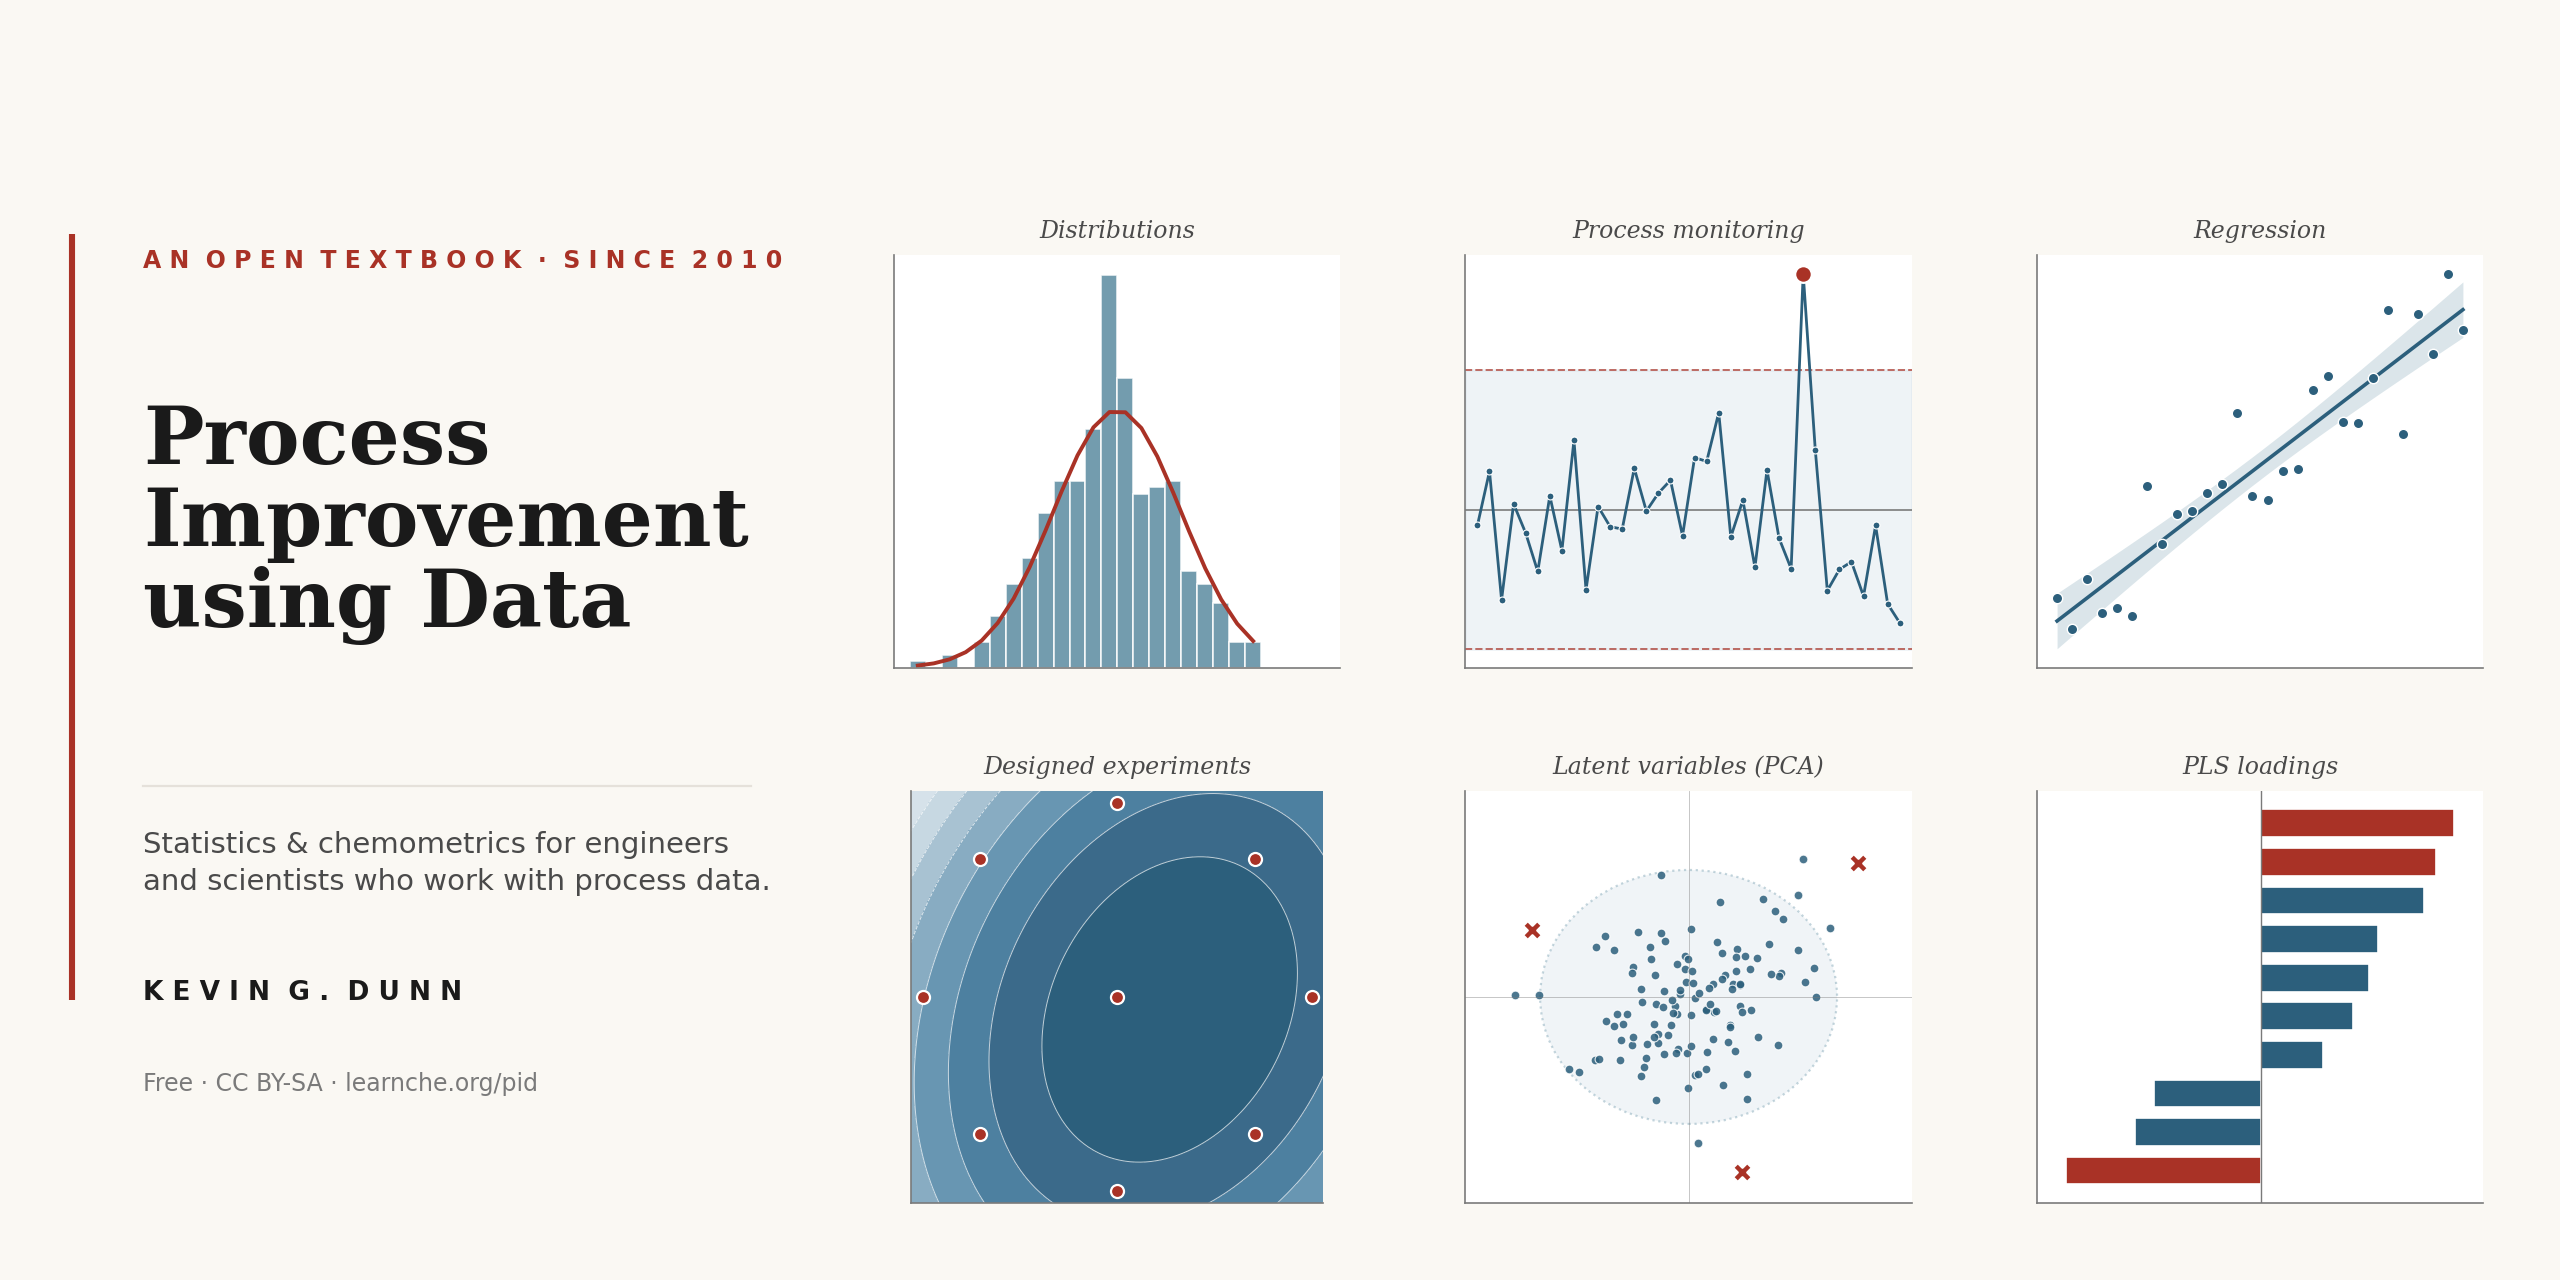
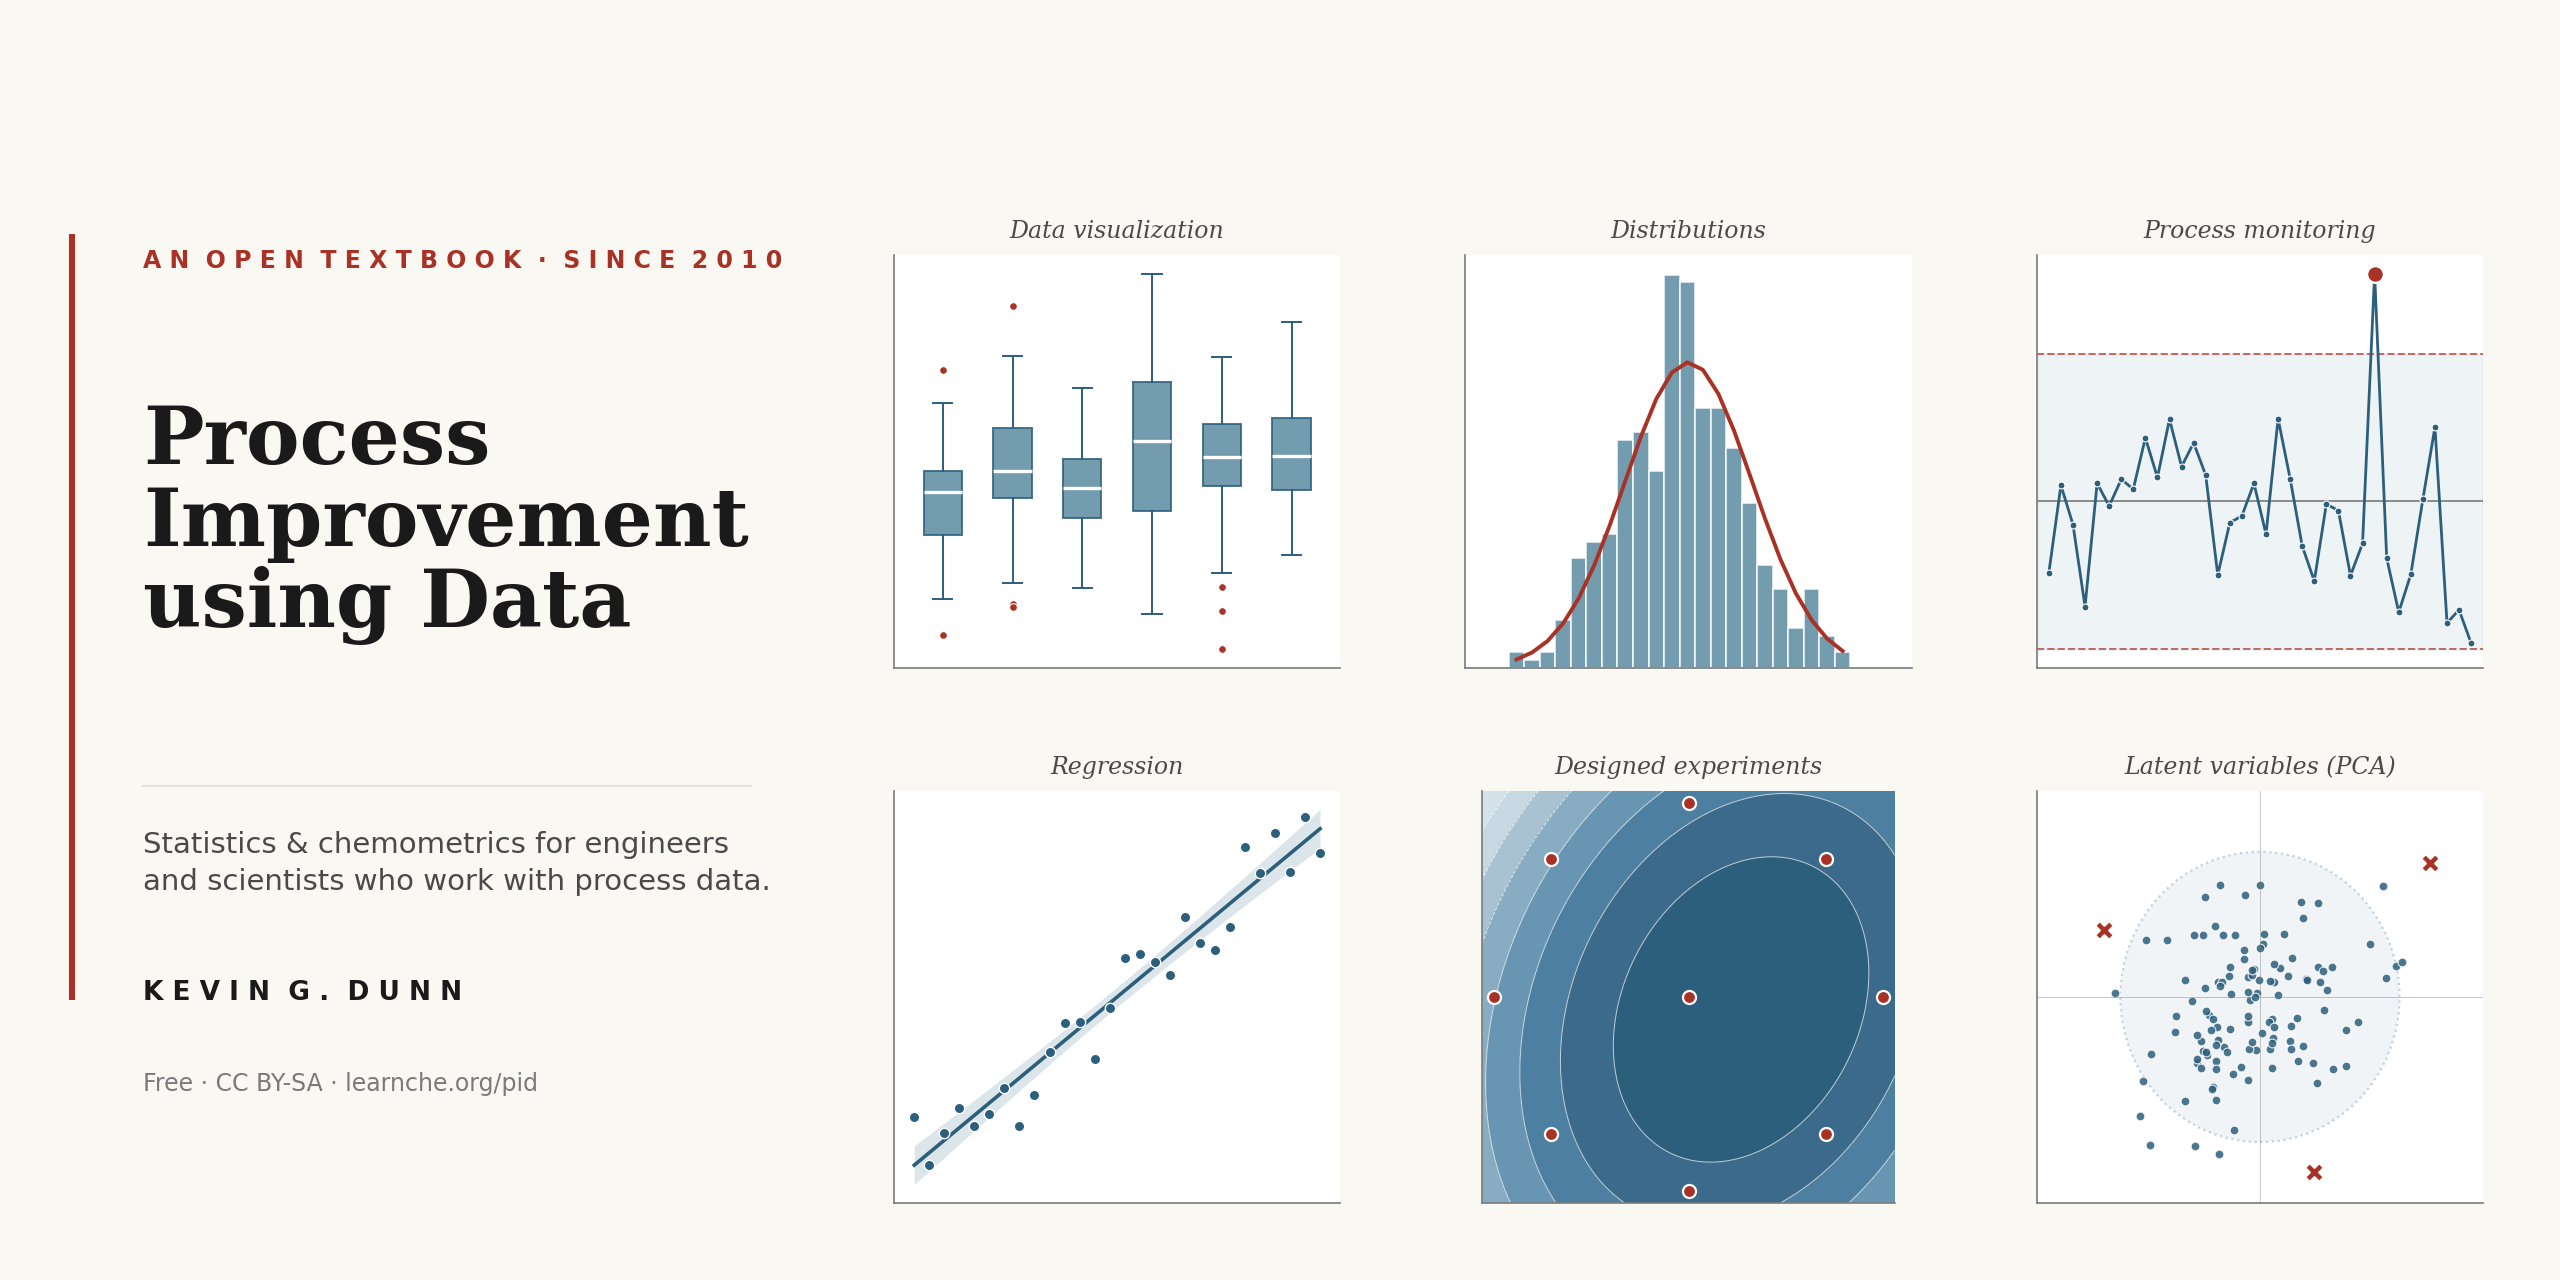
Replace the README hero with the standalone social card
The new image bakes the title, tagline, byline, and CC BY-SA / URL
into the left panel, so the hero now stands on its own as a social
preview rather than relying on the surrounding README text. The
panel set also shifts: data visualization (box plots) is now in,
PLS loadings is out, and the layout is rebalanced to 1x3 + 1x3.

Update the README alt text to match the new contents.

diff --git a/README.md b/README.md
@@ -13,7 +13,7 @@
 
 <p align="center">
   <img src="_static/hero.png"
-       alt="Process Improvement using Data: distributions, process monitoring, regression, designed experiments, latent variables (PCA), and PLS loadings"
+       alt="Process Improvement using Data, by Kevin G. Dunn: an open textbook since 2010, with a six-panel preview of data visualization, distributions, process monitoring, regression, designed experiments, and latent variables (PCA)."
        width="720">
 </p>
 
